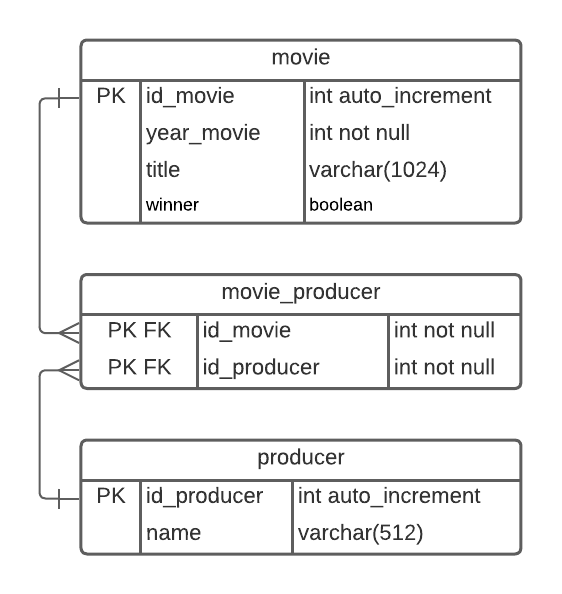
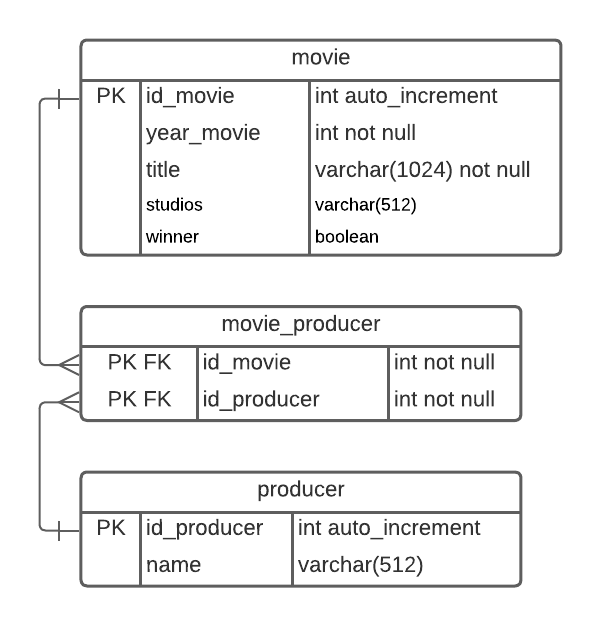
alter database and diagram to add studios

Changed region(s): [[0.0605, 0.0606, 0.9377, 0.9394]]

diff --git a/src/main/java/com/example/movieapi/controller/MovieController.java b/src/main/java/com/example/movieapi/controller/MovieController.java
@@ -24,7 +24,7 @@ public class MovieController {
     }
 
     @PostMapping(value = "/upload-data", consumes = {"multipart/form-data"})
-    public List<MovieDTO> inserir(@ModelAttribute @NotNull MultipartFile file) throws BusinessException {
+    public List<MovieDTO> uploadData(@ModelAttribute @NotNull MultipartFile file) throws BusinessException {
         return movieService.processFile(file);
     }
 
